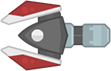
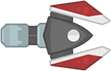
Enemy assets flipped. Enemy bullets made larger. Enemy firerate decreased

diff --git a/Type/Objects/Enemies/EnemyFactory.cs b/Type/Objects/Enemies/EnemyFactory.cs
@@ -81,17 +81,17 @@ namespace Type.Objects.Enemies
             {
                 case 0:
                     {
-                        enemy = new EnemyA("Content/Graphics/enemy1.png", _CurrentWave.SpawnPositions[_DataIndex], 0, new Vector2(-1, 0), 600, TimeSpan.FromSeconds(1.2f), 3);
+                        enemy = new EnemyA("Content/Graphics/enemy1.png", _CurrentWave.SpawnPositions[_DataIndex], 0, new Vector2(-1, 0), 600, TimeSpan.FromSeconds(1.5f), 3);
                         break;
                     }
                 case 1:
                     {
-                        enemy = new EnemyB("Content/Graphics/enemy2.png", _CurrentWave.SpawnPositions[_DataIndex], 0, new Vector2(-1, 0), 625, TimeSpan.FromSeconds(1.2f), 7);
+                        enemy = new EnemyB("Content/Graphics/enemy2.png", _CurrentWave.SpawnPositions[_DataIndex], 0, new Vector2(-1, 0), 625, TimeSpan.FromSeconds(1.3f), 7);
                         break;
                     }
                 case 2:
                     {
-                        enemy = new EnemyC("Content/Graphics/enemy3.png", _CurrentWave.SpawnPositions[_DataIndex], 0, new Vector2(-1, 0), 725, TimeSpan.FromSeconds(1.1), 20);
+                        enemy = new EnemyC("Content/Graphics/enemy4.png", _CurrentWave.SpawnPositions[_DataIndex], 0, new Vector2(-1, 0), 725, TimeSpan.FromSeconds(1.2), 10);
                         break;
                     }
                 default:

diff --git a/Type/Objects/Enemies/EnemyB.cs b/Type/Objects/Enemies/EnemyB.cs
@@ -18,8 +18,12 @@ namespace Type.Objects.Enemies
         protected override void Fire()
         {
             if (!_IsHostile) return;
-            new Bullet("Content/Graphics/bullet.png", Position, new Vector2(-1, 0), 1150, Math.PI, false, new Vector4(255, 255, 0, 1));
+
+            Vector2 bulletDirection = _DirectionTowardsPlayer;
+            if (bulletDirection != Vector2.Zero) bulletDirection.Normalize();
+            new Bullet("Content/Graphics/enemybullet.png", Position, bulletDirection, 1000, Rotation, false, new Vector4(255, 255, 0, 1));
             _IsWeaponLocked = true;
+
             new AudioPlayer("Content/Audio/laser3.wav", false, AudioManager.Category.EFFECT, 1);
         }
     }

diff --git a/Type/Objects/Enemies/EnemyC.cs b/Type/Objects/Enemies/EnemyC.cs
@@ -16,7 +16,11 @@ namespace Type.Objects.Enemies
         protected override void Fire()
         {
             if (!_IsHostile) return;
-            new Bullet("Content/Graphics/bullet.png", Position, new Vector2(-1, 0), 1200, Math.PI, false, new Vector4(255, 0, 255, 1));
+
+            Vector2 bulletDirection = _DirectionTowardsPlayer;
+            if (bulletDirection != Vector2.Zero) bulletDirection.Normalize();
+            new Bullet("Content/Graphics/enemybullet.png", Position, bulletDirection, 1050, Rotation, false, new Vector4(255, 0, 255, 1));
+
             _IsWeaponLocked = true;
             new AudioPlayer("Content/Audio/laser4.wav", false, AudioManager.Category.EFFECT, 1);
         }

diff --git a/Type/Objects/Enemies/EnemyA.cs b/Type/Objects/Enemies/EnemyA.cs
@@ -21,7 +21,7 @@ namespace Type.Objects.Enemies
 
             Vector2 bulletDirection = _DirectionTowardsPlayer;
             if (bulletDirection != Vector2.Zero) bulletDirection.Normalize();
-            new Bullet("Content/Graphics/bullet.png", Position, bulletDirection, 600, Rotation, false, new Vector4(255, 0, 0, 1));
+            new Bullet("Content/Graphics/enemybullet.png", Position, bulletDirection, 1000, Rotation, false, new Vector4(255, 0, 0, 1));
 
             _IsWeaponLocked = true;
             new AudioPlayer("Content/Audio/laser2.wav", false, AudioManager.Category.EFFECT, 1);
